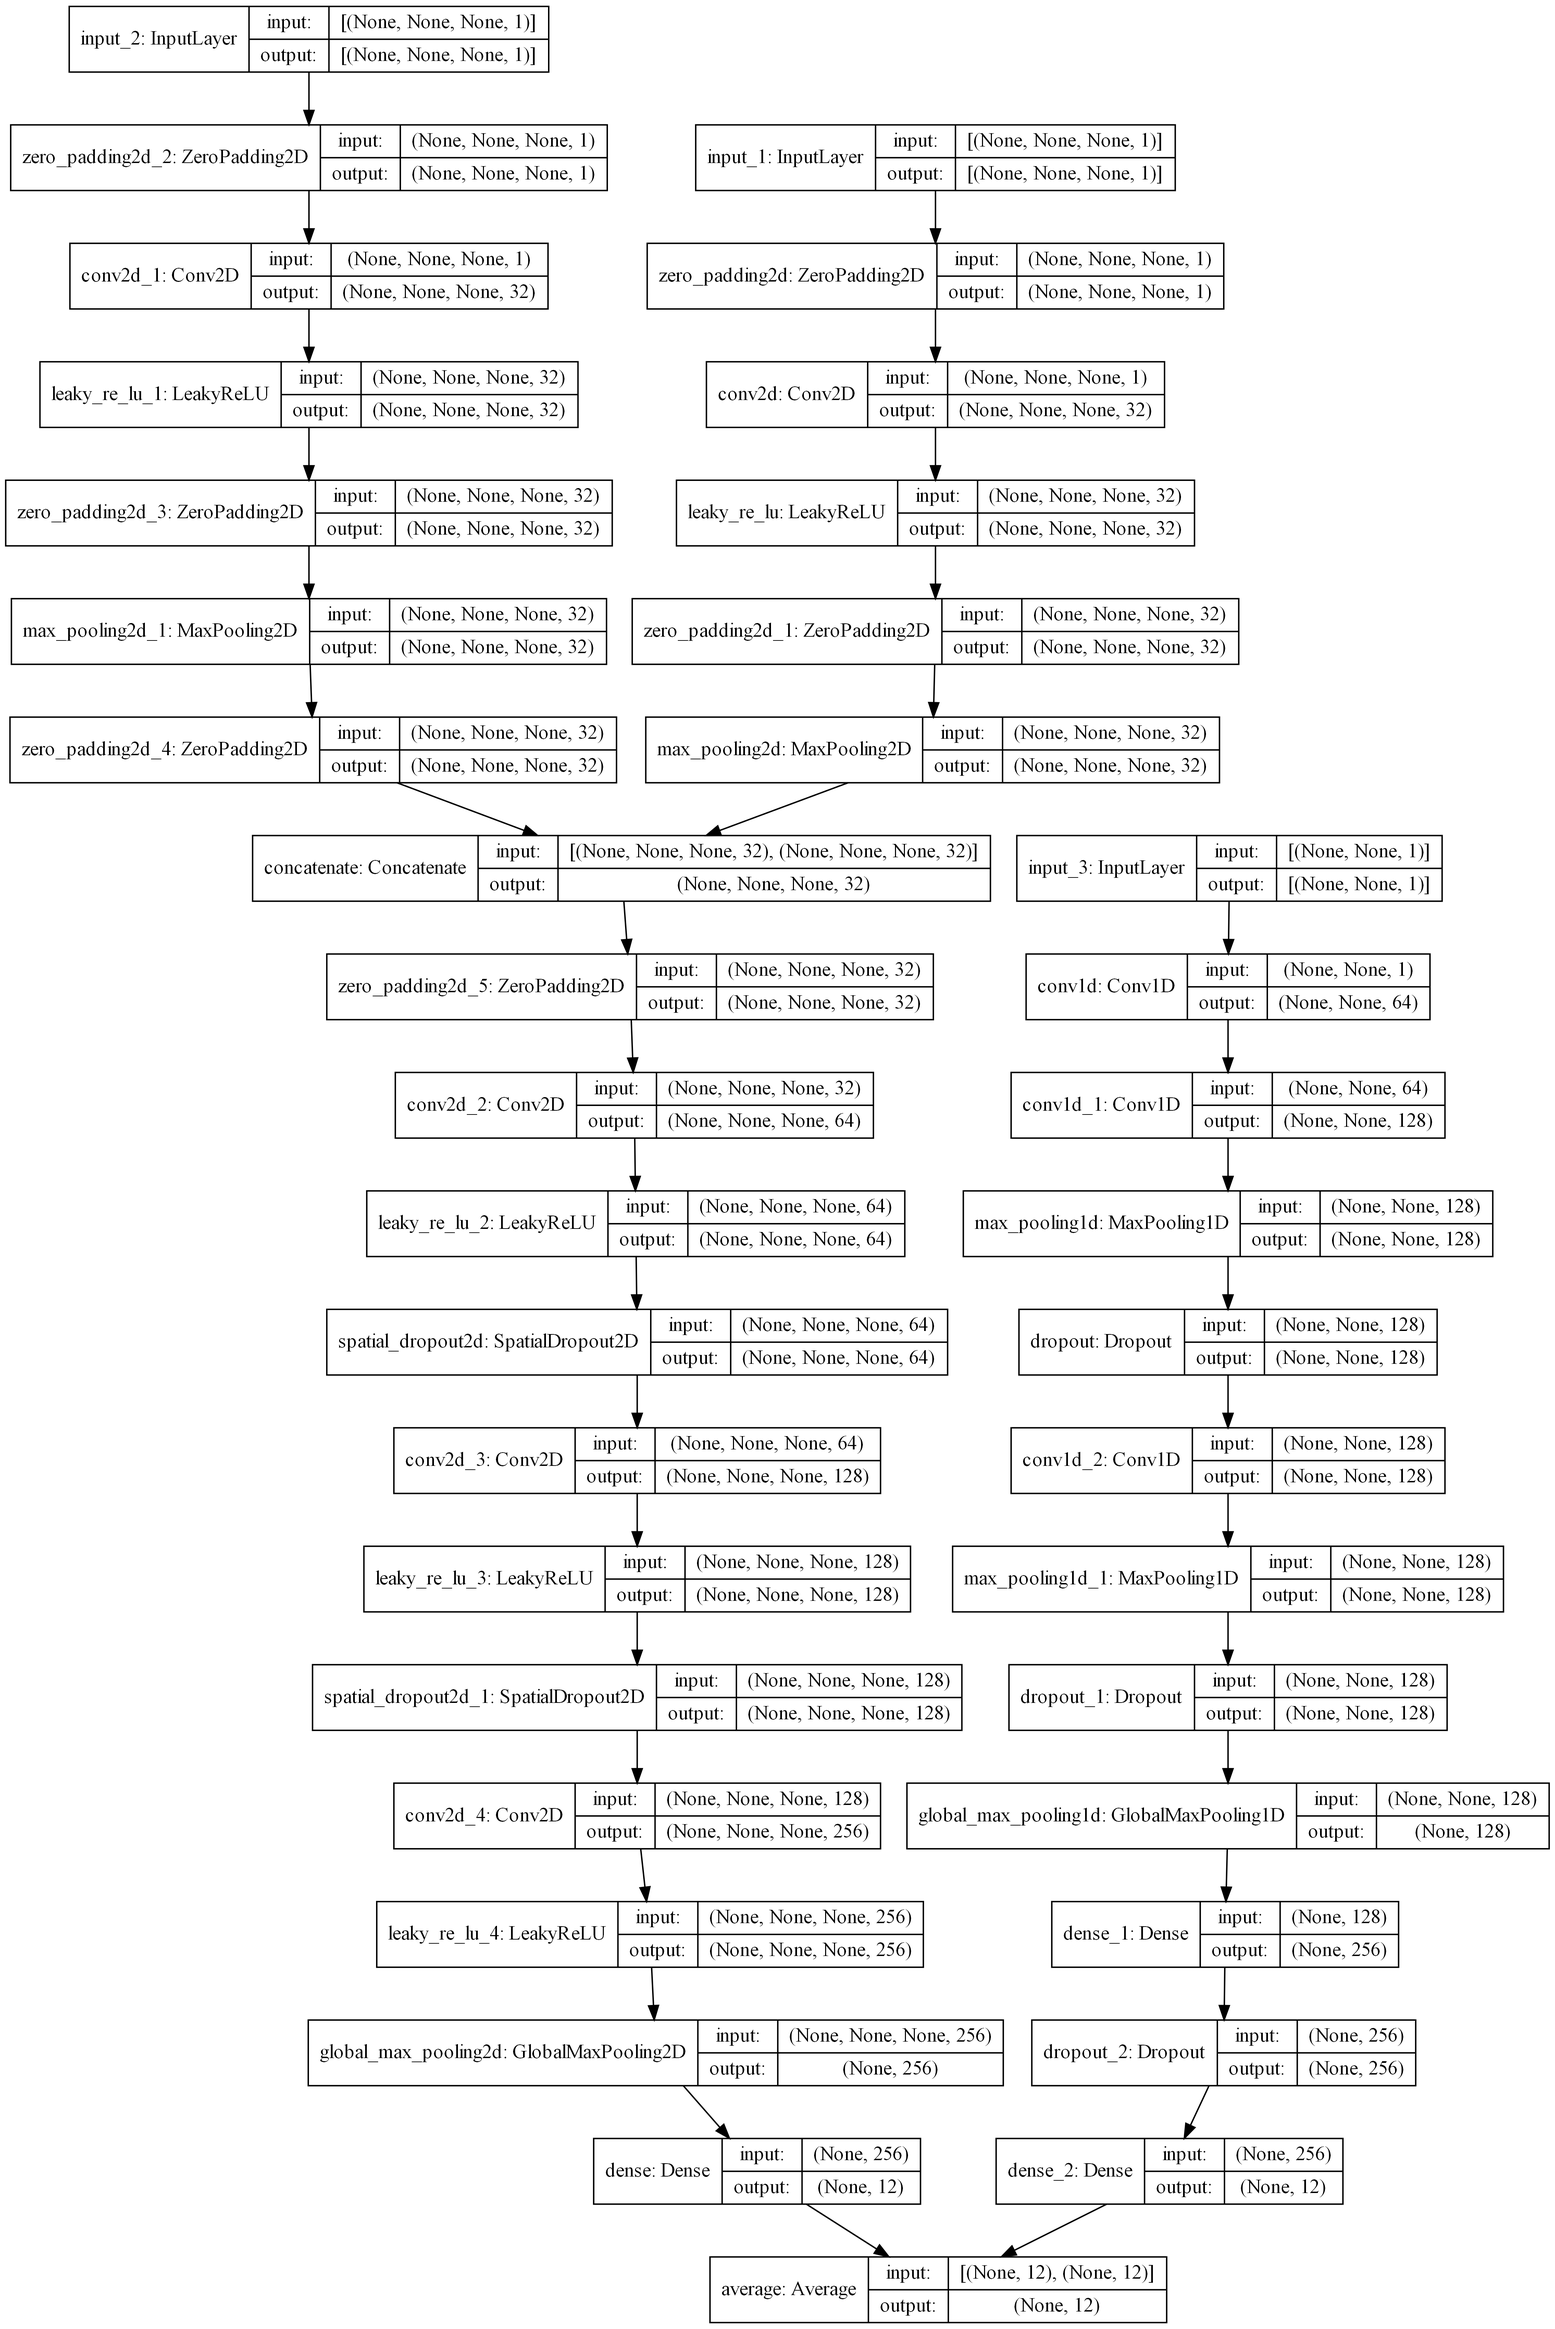
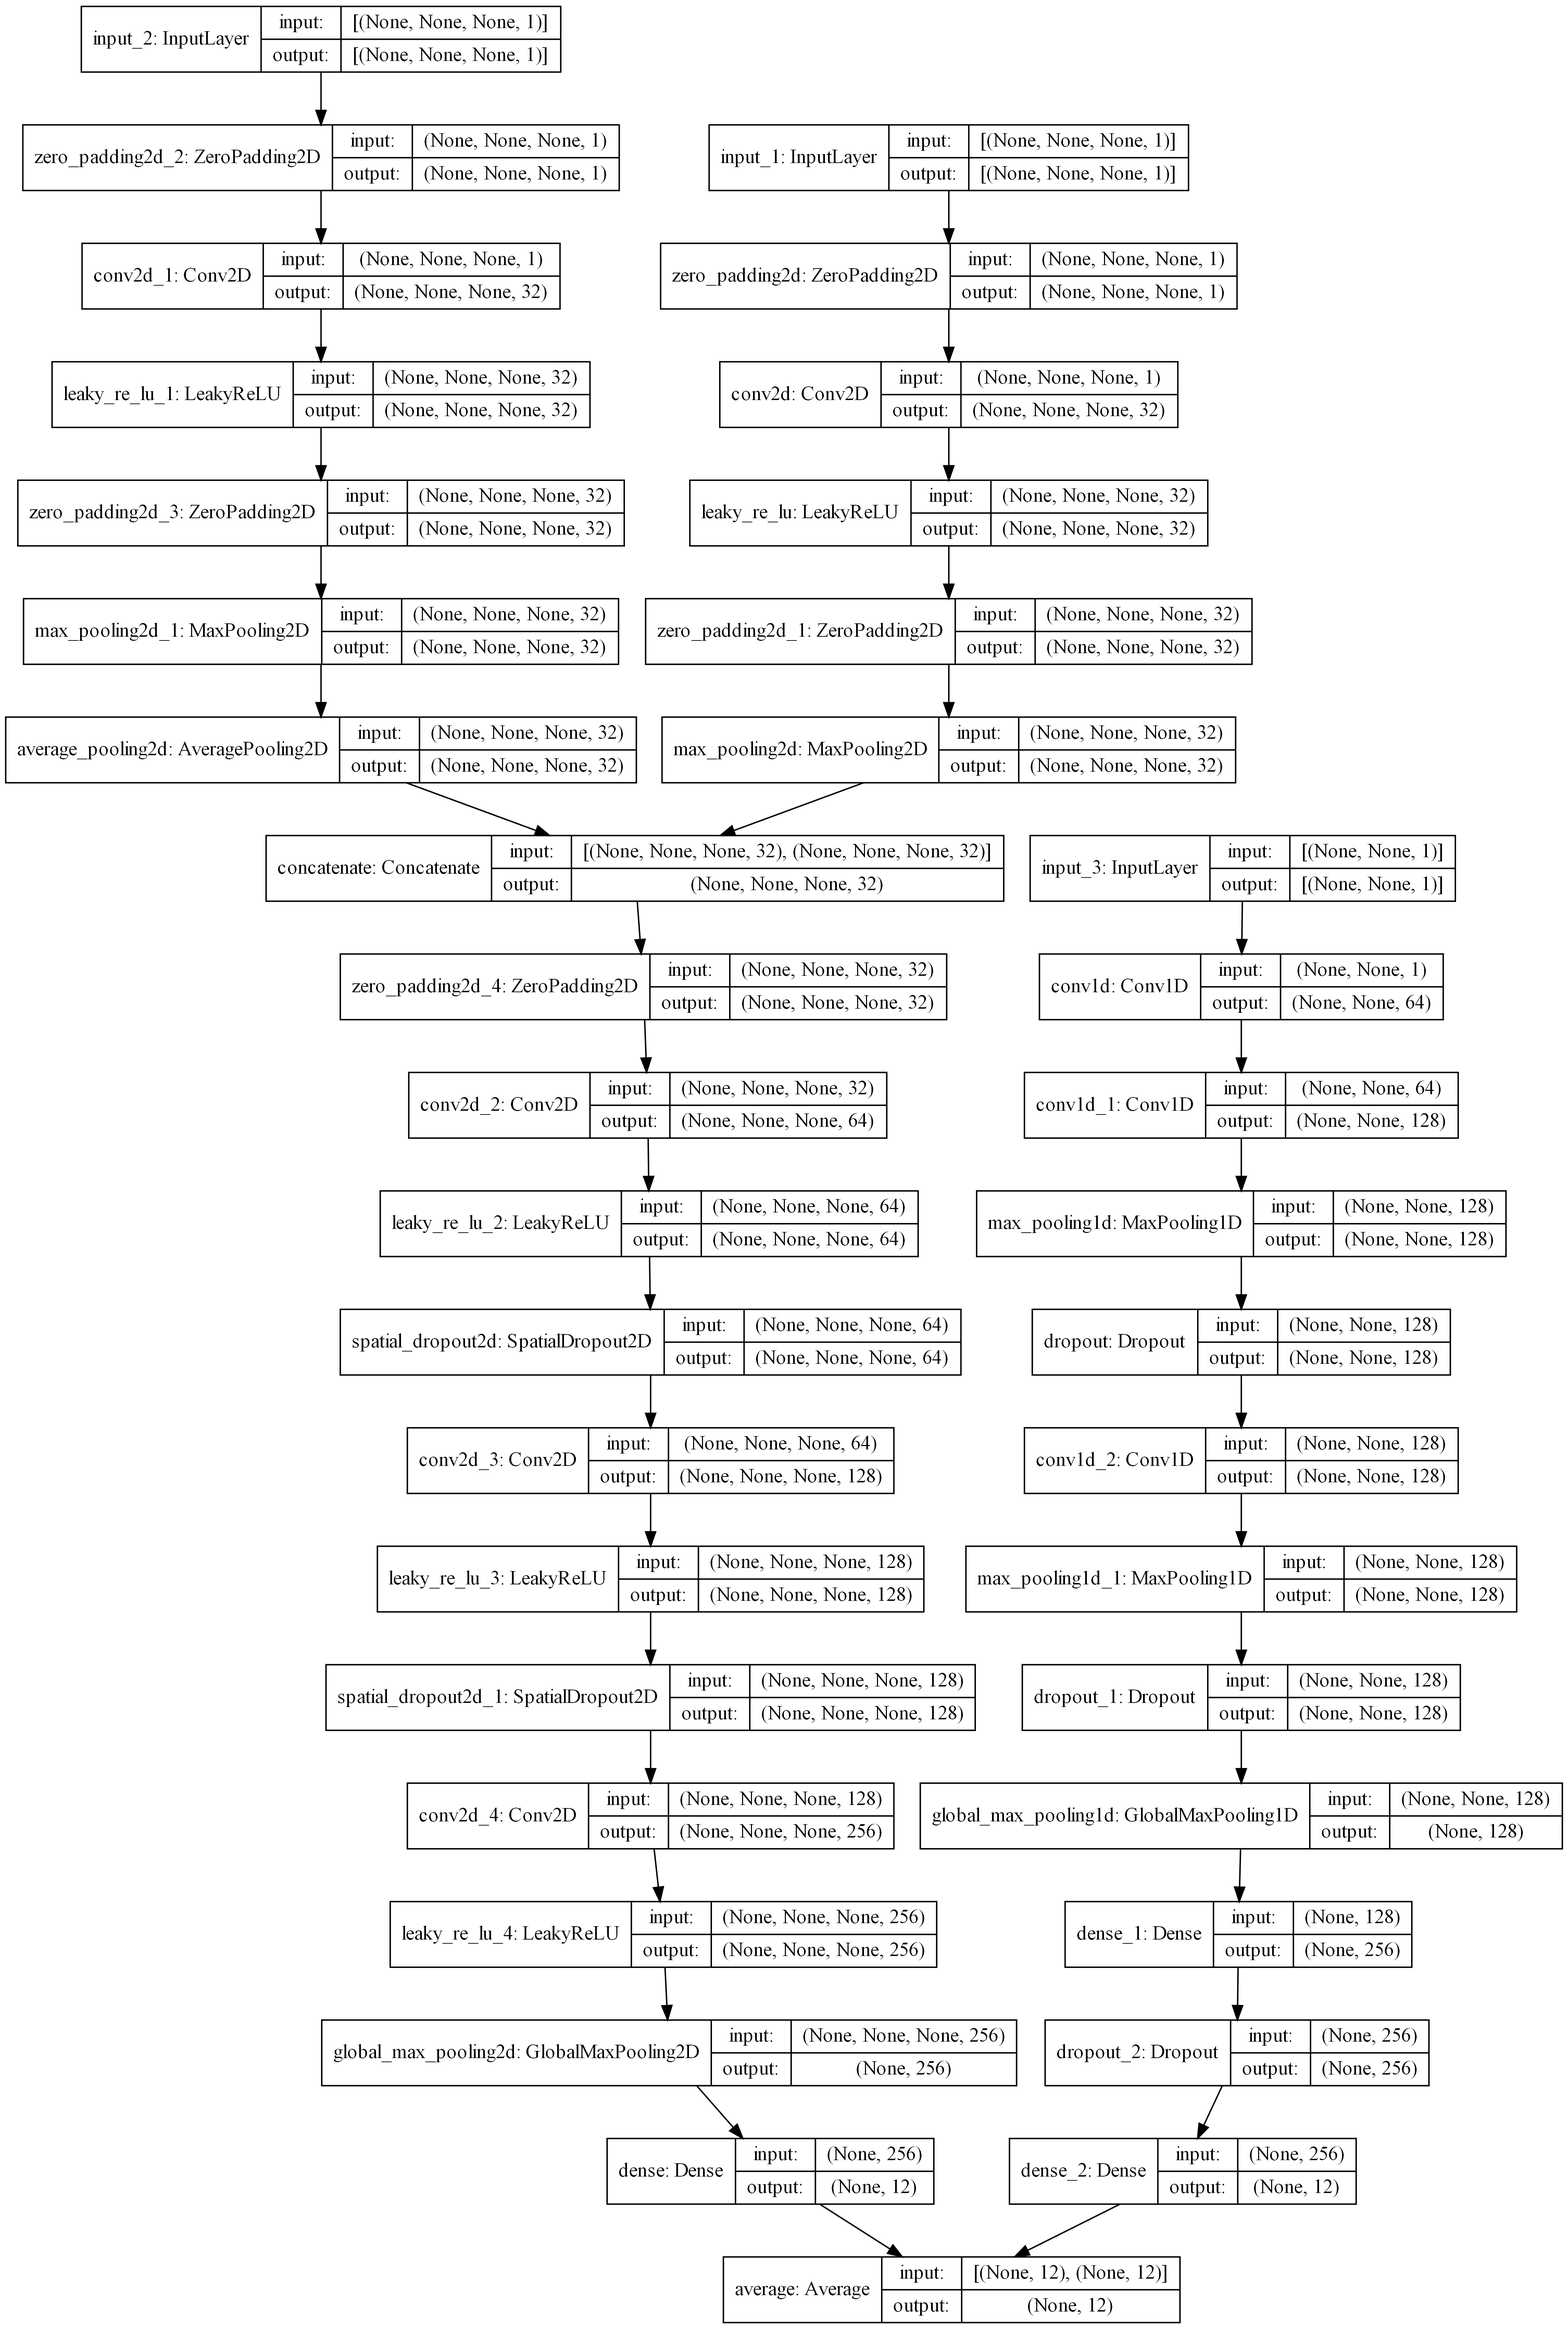
Update - Datasets work properly with generator

diff --git a/main.py b/main.py
@@ -64,6 +64,7 @@ from data_utils_input import normalize_image, padding_MLS, padding_SSLM, borders
 from keras import backend as k
 from shutil import copyfile
 import fnmatch
+from skimage.transform import resize
 
 k.set_image_data_format('channels_last')
 # os.environ["CUDA_VISIBLE_DEVICES"] = "-1"
@@ -522,7 +523,8 @@ def formnn_sslm(output_channels=32, lrval=0.0001):
     y = layers.LeakyReLU(alpha=lrval)(y)
     y = layers.ZeroPadding2D(padding=((1, 1), (1, 1)))(y)
     y = layers.MaxPooling2D(pool_size=(5, 3), strides=(5, 1), padding='same')(y)
-    y = layers.ZeroPadding2D(padding=(13, 0))(y)
+    # y = layers.ZeroPadding2D(padding=(13, 0))(y)  # why?
+    y = layers.AveragePooling2D(pool_size=(1, 4))(y)
     y = keras.models.Model(inputs=inputB, outputs=y)
     return y
 
@@ -573,17 +575,17 @@ def trainModel():
     batch_size = 1
 
     # region MODEL_DIRECTORIES
-    mls_train = dus.BuildDataloader(os.path.join(TRAIN_DIR, 'MLS/'), label_path=TRAIN_LABELPATH, end=31,
+    mls_train = dus.BuildDataloader(os.path.join(TRAIN_DIR, 'MLS/'), label_path=TRAIN_LABELPATH, end=10,
                                     transforms=[padding_MLS, normalize_image, borders], batch_size=batch_size)
-    sslm_cmcos_train = dus.BuildDataloader(os.path.join(TRAIN_DIR, 'SSLM_CRM_COS/'), label_path=TRAIN_LABELPATH, end=31,
+    sslm_cmcos_train = dus.BuildDataloader(os.path.join(TRAIN_DIR, 'SSLM_CRM_COS/'), label_path=TRAIN_LABELPATH, end=10,
                                            transforms=[padding_SSLM, normalize_image, borders], batch_size=batch_size)
-    sslm_cmeuc_train = dus.BuildDataloader(os.path.join(TRAIN_DIR, 'SSLM_CRM_EUC/'), label_path=TRAIN_LABELPATH, end=31,
+    sslm_cmeuc_train = dus.BuildDataloader(os.path.join(TRAIN_DIR, 'SSLM_CRM_EUC/'), label_path=TRAIN_LABELPATH, end=10,
                                            transforms=[padding_SSLM, normalize_image, borders], batch_size=batch_size)
-    sslm_mfcos_train = dus.BuildDataloader(os.path.join(TRAIN_DIR, 'SSLM_MFCC_COS/'), label_path=TRAIN_LABELPATH, end=31,
+    sslm_mfcos_train = dus.BuildDataloader(os.path.join(TRAIN_DIR, 'SSLM_MFCC_COS/'), label_path=TRAIN_LABELPATH, end=10,
                                            transforms=[padding_SSLM, normalize_image, borders], batch_size=batch_size)
-    sslm_mfeuc_train = dus.BuildDataloader(os.path.join(TRAIN_DIR, 'SSLM_MFCC_EUC/'), label_path=TRAIN_LABELPATH, end=31,
+    sslm_mfeuc_train = dus.BuildDataloader(os.path.join(TRAIN_DIR, 'SSLM_MFCC_EUC/'), label_path=TRAIN_LABELPATH, end=10,
                                            transforms=[padding_SSLM, normalize_image, borders], batch_size=batch_size)
-    midi_train = dus.BuildMIDIloader(os.path.join(TRAIN_DIR, 'MIDI/'), label_path=TRAIN_LABELPATH, end=31,
+    midi_train = dus.BuildMIDIloader(os.path.join(TRAIN_DIR, 'MIDI/'), label_path=TRAIN_LABELPATH, end=10,
                                      batch_size=batch_size)
 
     # """
@@ -599,7 +601,7 @@ def trainModel():
                                             transforms=[padding_SSLM, normalize_image, borders], batch_size=batch_size)
     midi_train2 = dus.BuildMIDIloader(os.path.join(TRAIN2_DIR, 'MIDI/'), label_path=TRAIN2_LABELPATH,
                                       batch_size=batch_size)
-    """
+    # """
 
     mls_val = dus.BuildDataloader(os.path.join(VAL_DIR, 'MLS/'), label_path=VAL_LABELPATH,
                                   transforms=[padding_MLS, normalize_image, borders], batch_size=batch_size)
@@ -612,7 +614,7 @@ def trainModel():
     sslm_mfeuc_val = dus.BuildDataloader(os.path.join(VAL_DIR, 'SSLM_MFCC_EUC/'), label_path=VAL_LABELPATH,
                                          transforms=[padding_SSLM, normalize_image, borders], batch_size=batch_size)
 
-    "" "
+    """
     mls_test = dus.BuildDataloader(os.path.join(TEST_DIR, 'MLS/'), label_path=TEST_LABELPATH,
                                    transforms=[padding_MLS, normalize_image, borders], batch_size=batch_size)
     sslm_cmcos_test = dus.BuildDataloader(os.path.join(TEST_DIR, 'SSLM_CRM_COS/'), label_path=TEST_LABELPATH,
@@ -626,12 +628,23 @@ def trainModel():
     """
     # endregion
 
-    def multi_input_generator_helper(gen1, gen2, gen3, gen4):
+    def multi_input_generator_helper(gen1, gen2, gen3, gen4, mlsshape):
         while True:
-            yield tf.expand_dims(np.concatenate((next(gen1)[0],
-                                                 np.concatenate((next(gen2)[0],
-                                                                 np.concatenate((next(gen3)[0], next(gen4)[0]),
-                                                                                axis=-1)), axis=-1)), axis=-1), axis=-1)
+            sslm1 = next(gen1)[0]
+            sslm1 = resize(sslm1, (max(mlsshape[0], sslm1.shape[0]), max(mlsshape[1], sslm1.shape[1])))
+            sslm2 = next(gen2)[0]
+            sslm2 = resize(sslm2, (max(mlsshape[0], sslm2.shape[0]), max(mlsshape[1], sslm2.shape[1])))
+            sslm3 = next(gen3)[0]
+            sslm3 = resize(sslm3, (max(mlsshape[0], sslm3.shape[0]), max(mlsshape[1], sslm3.shape[1])))
+            sslm4 = next(gen4)[0]
+            sslm4 = resize(sslm4, (max(mlsshape[0], sslm4.shape[0]), max(mlsshape[1], sslm4.shape[1])))
+            # yield sslm1.shape, [sslm1, sslm2, sslm3, sslm4]
+            # """
+            yield sslm1.shape, tf.expand_dims(
+                np.concatenate((sslm1,
+                                np.concatenate((sslm2,
+                                                np.concatenate((sslm3, sslm4),
+                                                               axis=-1)), axis=-1)), axis=-1), axis=-1)
 
     def multi_input_generator(gen1, gen2, gen3, gen4, gen5, gen6, stop=-1, feature=2):
         while True:
@@ -639,9 +652,10 @@ def trainModel():
                 stop -= 1
                 if stop == 0:
                     break
-            tpl = next(gen1)  # keras.utils.to_categorical(tpl[1])
-            yield [tpl[0], next(multi_input_generator_helper(gen2, gen3, gen4, gen5)),
-                   tf.expand_dims(next(gen6)[0], axis=0)], tpl[1][feature]
+            mlsgen = next(gen1)
+            sslmshape, sslmimgs = next(multi_input_generator_helper(gen2, gen3, gen4, gen5, mlsgen[0].shape))
+            mlsimgout = resize(mlsgen[0], sslmshape)
+            yield [mlsimgout, sslmimgs, tf.expand_dims(next(gen6)[0], axis=0)], mlsgen[1][feature]
 
     train_datagen = multi_input_generator(mls_train, sslm_cmcos_train, sslm_cmeuc_train, sslm_mfcos_train,
                                           sslm_mfeuc_train, midi_train)
@@ -649,8 +663,6 @@ def trainModel():
                                           sslm_mfeuc_train2, midi_train2)  # , stop=13)
     # valid_datagen = multi_input_generator(mls_val, sslm_cmcos_val, sslm_cmeuc_val, sslm_mfcos_val, sslm_mfeuc_val)
     # test_datagen = multi_input_generator(mls_test, sslm_cmcos_test, sslm_cmeuc_test, sslm_mfcos_test, sslm_mfeuc_test
-
-    print(next(train_datagen)[0][2].shape)
 
     steps_per_epoch = len(list(mls_train)) // batch_size
     steps_per_valid = len(list(mls_train2)) // batch_size  # mls_val

diff --git a/data_utils_input.py b/data_utils_input.py
@@ -392,7 +392,6 @@ class BuildDataloader(k.utils.Sequence):
         self.labels_form_list = []
         self.batch_size = batch_size
         self.n = 0
-        self.max = self.__len__()
 
         print("Building dataloader for " + self.images_path)
         cnt = 1
@@ -408,7 +407,7 @@ class BuildDataloader(k.utils.Sequence):
                     self.images_list.append(image)
                     cnt += 1
                     if end != -1:
-                        if cnt == end:
+                        if cnt == end + 1:
                             break
             """ 
             for (lab_dirpath, lab_dirnames, lab_filenames) in os.walk(self.labels_path):  # labels files fo labels path
@@ -443,6 +442,7 @@ class BuildDataloader(k.utils.Sequence):
         self.labels_sec_list = lbls_seconds
         self.labels_form_list = lbl_forms
         self.transforms = transforms
+        self.max = self.__len__()
 
     def __len__(self):
         return len(self.images_list)
@@ -485,7 +485,6 @@ class BuildMIDIloader(k.utils.Sequence):
         self.labels_form_list = []
         self.batch_size = batch_size
         self.n = 0
-        self.max = self.__len__()
 
         print("Building dataloader for " + self.midi_path)
         df = pd.DataFrame(columns=['spectral_contrast'])
@@ -515,7 +514,6 @@ class BuildMIDIloader(k.utils.Sequence):
                             break
         df = pd.DataFrame(df['spectral_contrast'].values.tolist())
         df = df.fillna(0)
-        # print if name = Sonata No. 14, K. 457 – Mvt. 3 by mozart (rondo)
         mean = np.mean(df, axis=0)
         std = np.std(df, axis=0)
         df = (df - mean) / std
@@ -527,6 +525,7 @@ class BuildMIDIloader(k.utils.Sequence):
         self.labels_sec_list = lbls_seconds
         self.labels_form_list = lbl_forms
         self.transforms = transforms
+        self.max = self.__len__()
 
     def __len__(self):
         return self.midi_list.shape[0]
